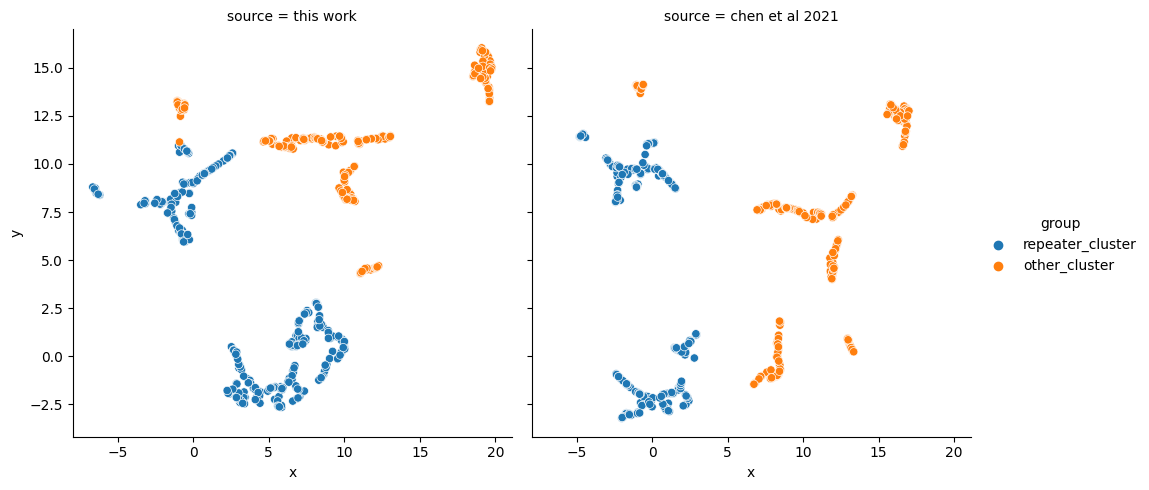
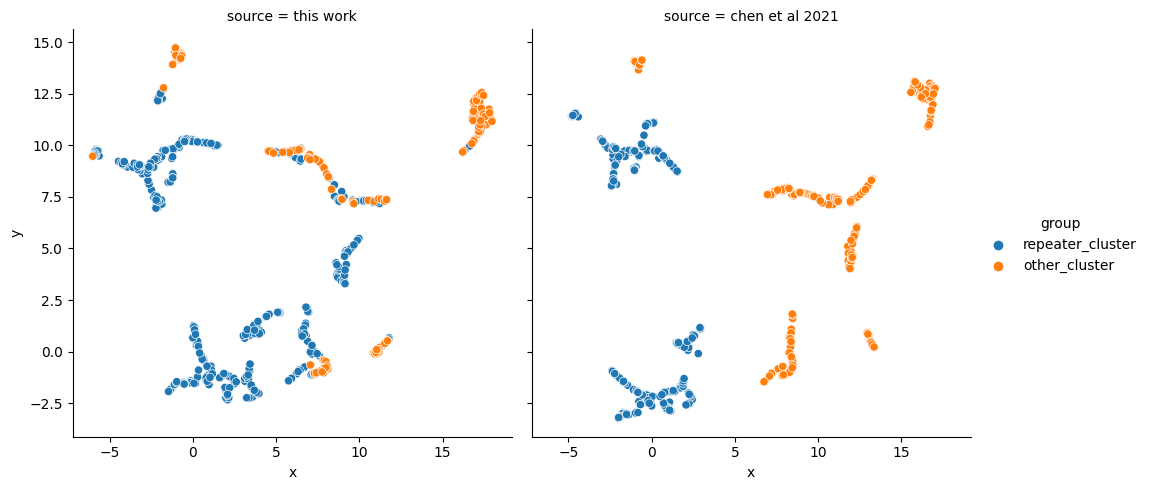
⚙ FIX: Set min cluster size 19

diff --git a/src/transients.py b/src/transients.py
@@ -1,0 +1,32 @@
+from typing import Optional
+
+# from
+
+
+class FRB:
+    def __init__(
+        self,
+        name: str,
+        dm: float,
+        redshift: Optional[float] = None,
+        raj: Optional[float] = None,
+        decj: Optional[float] = None,
+        gl: Optional[float] = None,
+        gb: Optional[float] = None,
+    ):
+        self.name = name
+        self.dm = dm
+        self.redshift = redshift
+
+        self.right_ascension = raj
+        self.declension = decj
+
+        self.gal_long = gl
+        self.gal_lat = gb
+
+    @property
+    def redshift_(self) -> float:
+        if self.redshift:
+            return self.redshift
+        else:
+            raise NotImplementedError

diff --git a/src/main.py b/src/main.py
@@ -2,7 +2,7 @@ import workflows
 
 if __name__ == "__main__":
     seed = 42
-    cluster_size = 30
+    cluster_size = 19
     workflows.replicate_chen2021_UMAP_HDBSCAN(min_cluster_size=cluster_size, seed=seed)
     workflows.UMAP_HDBSCAN_no_model_dependent_params(
         min_cluster_size=cluster_size, seed=seed
